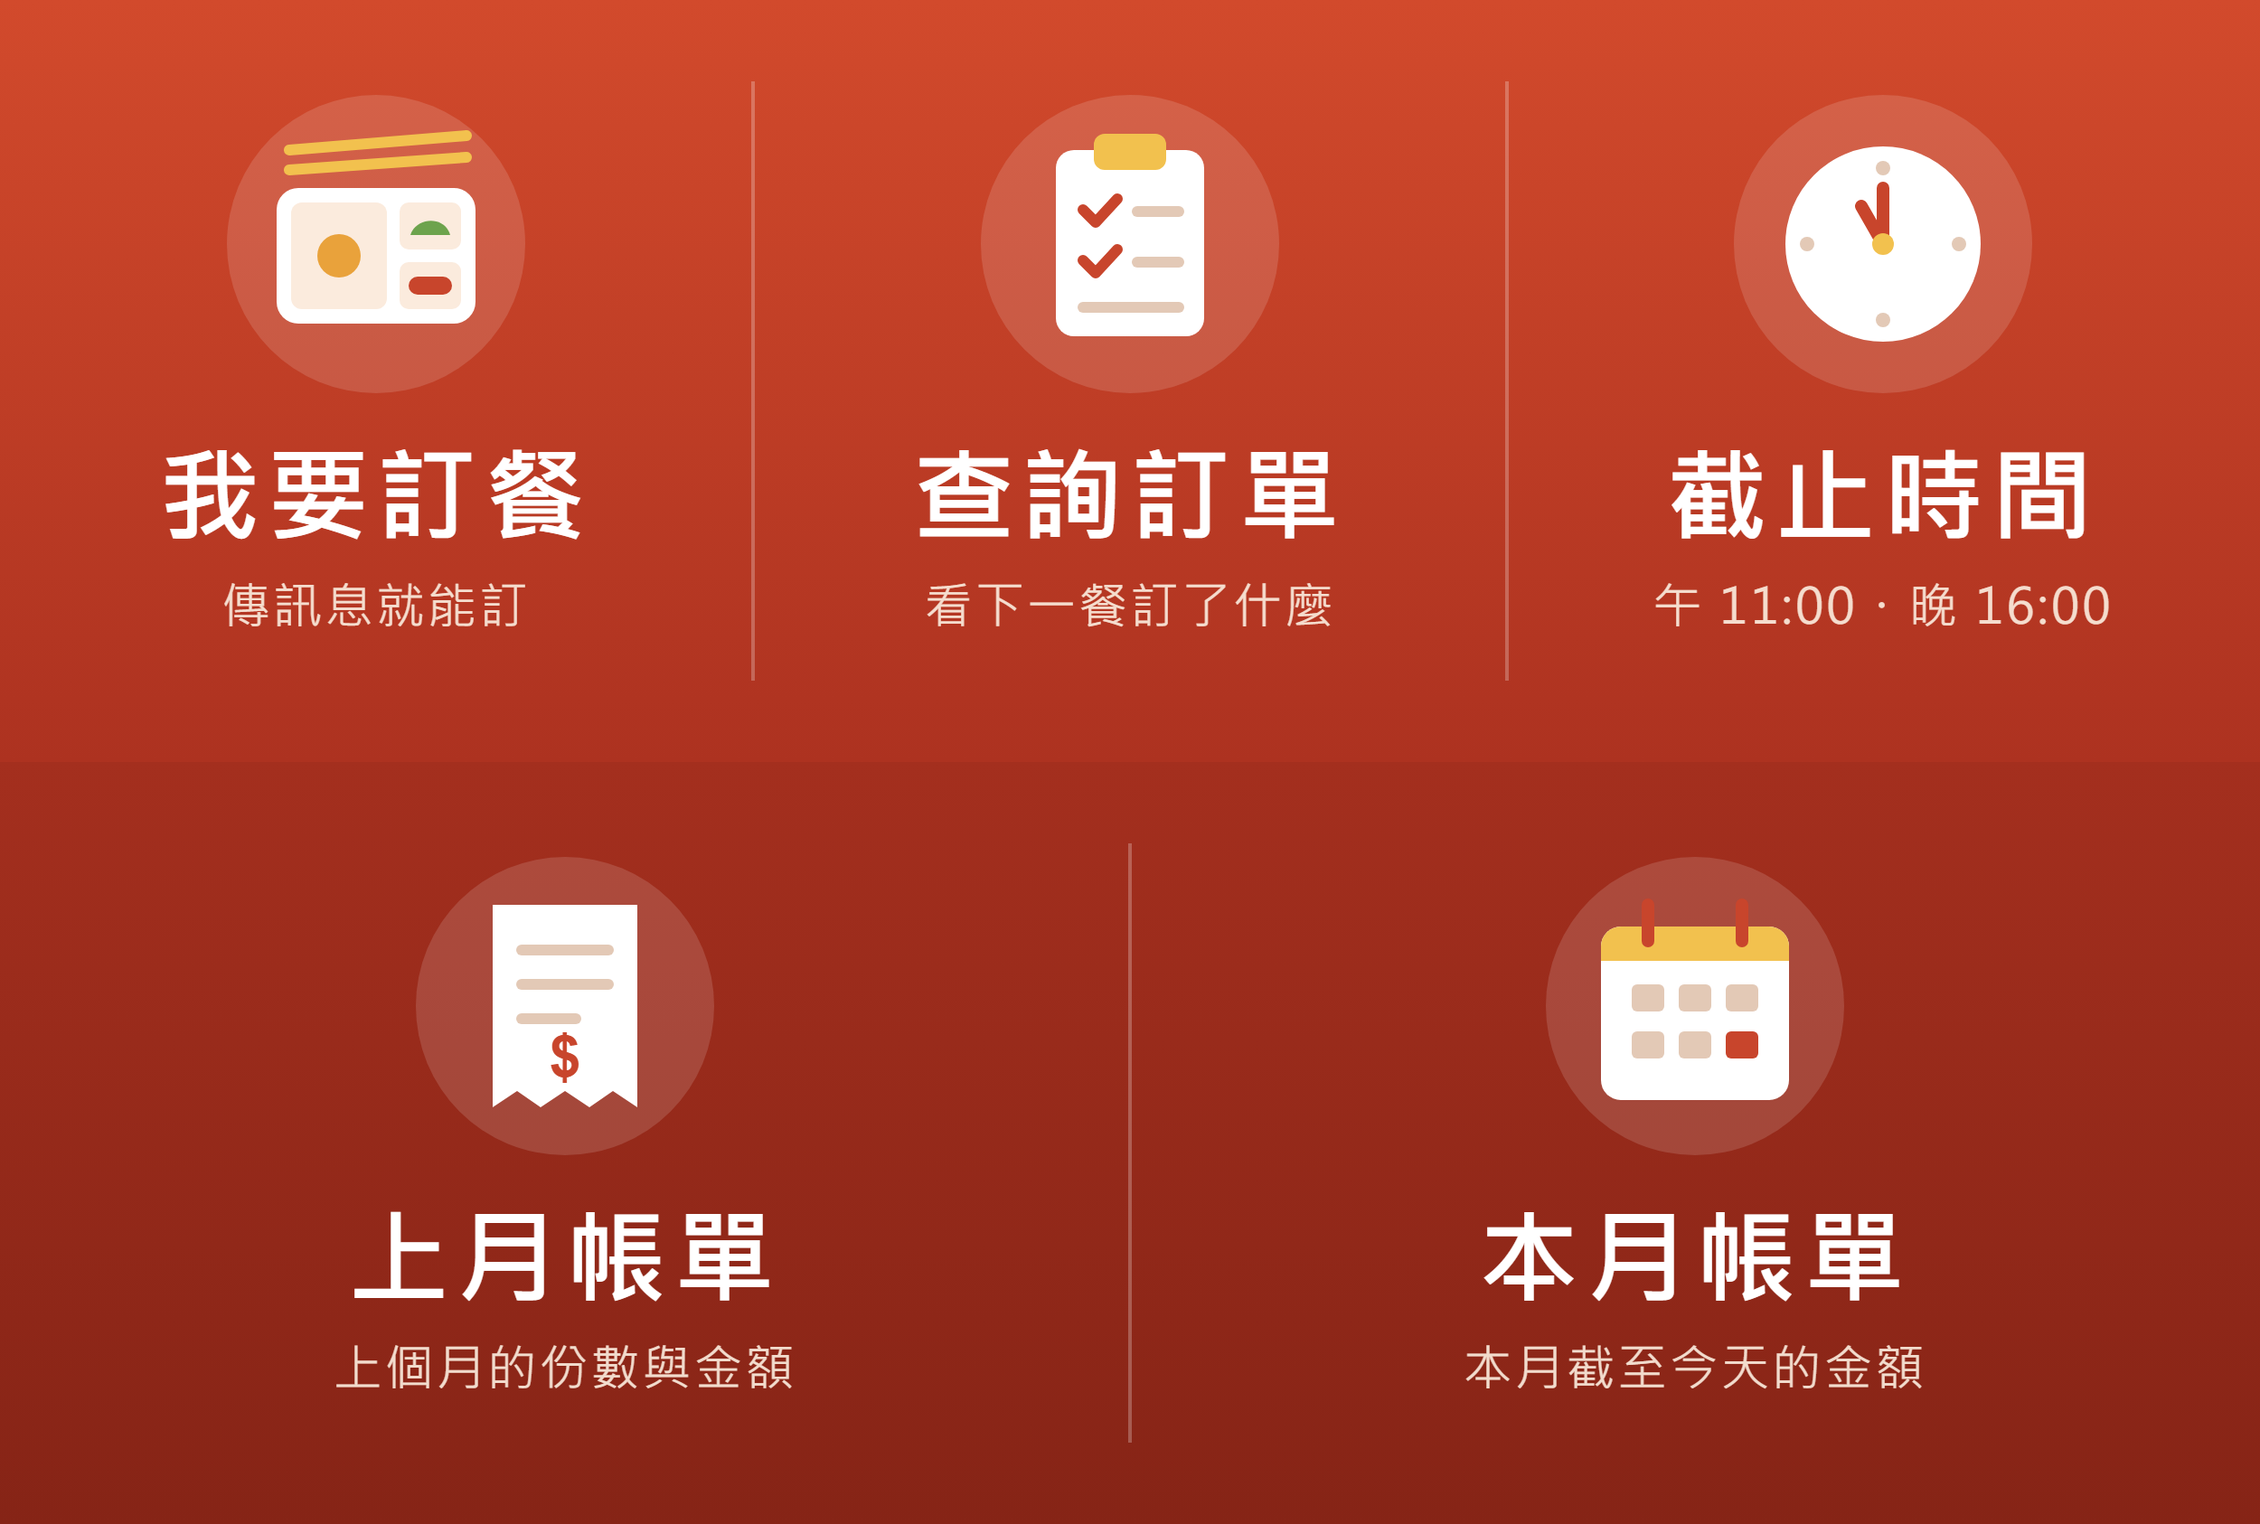
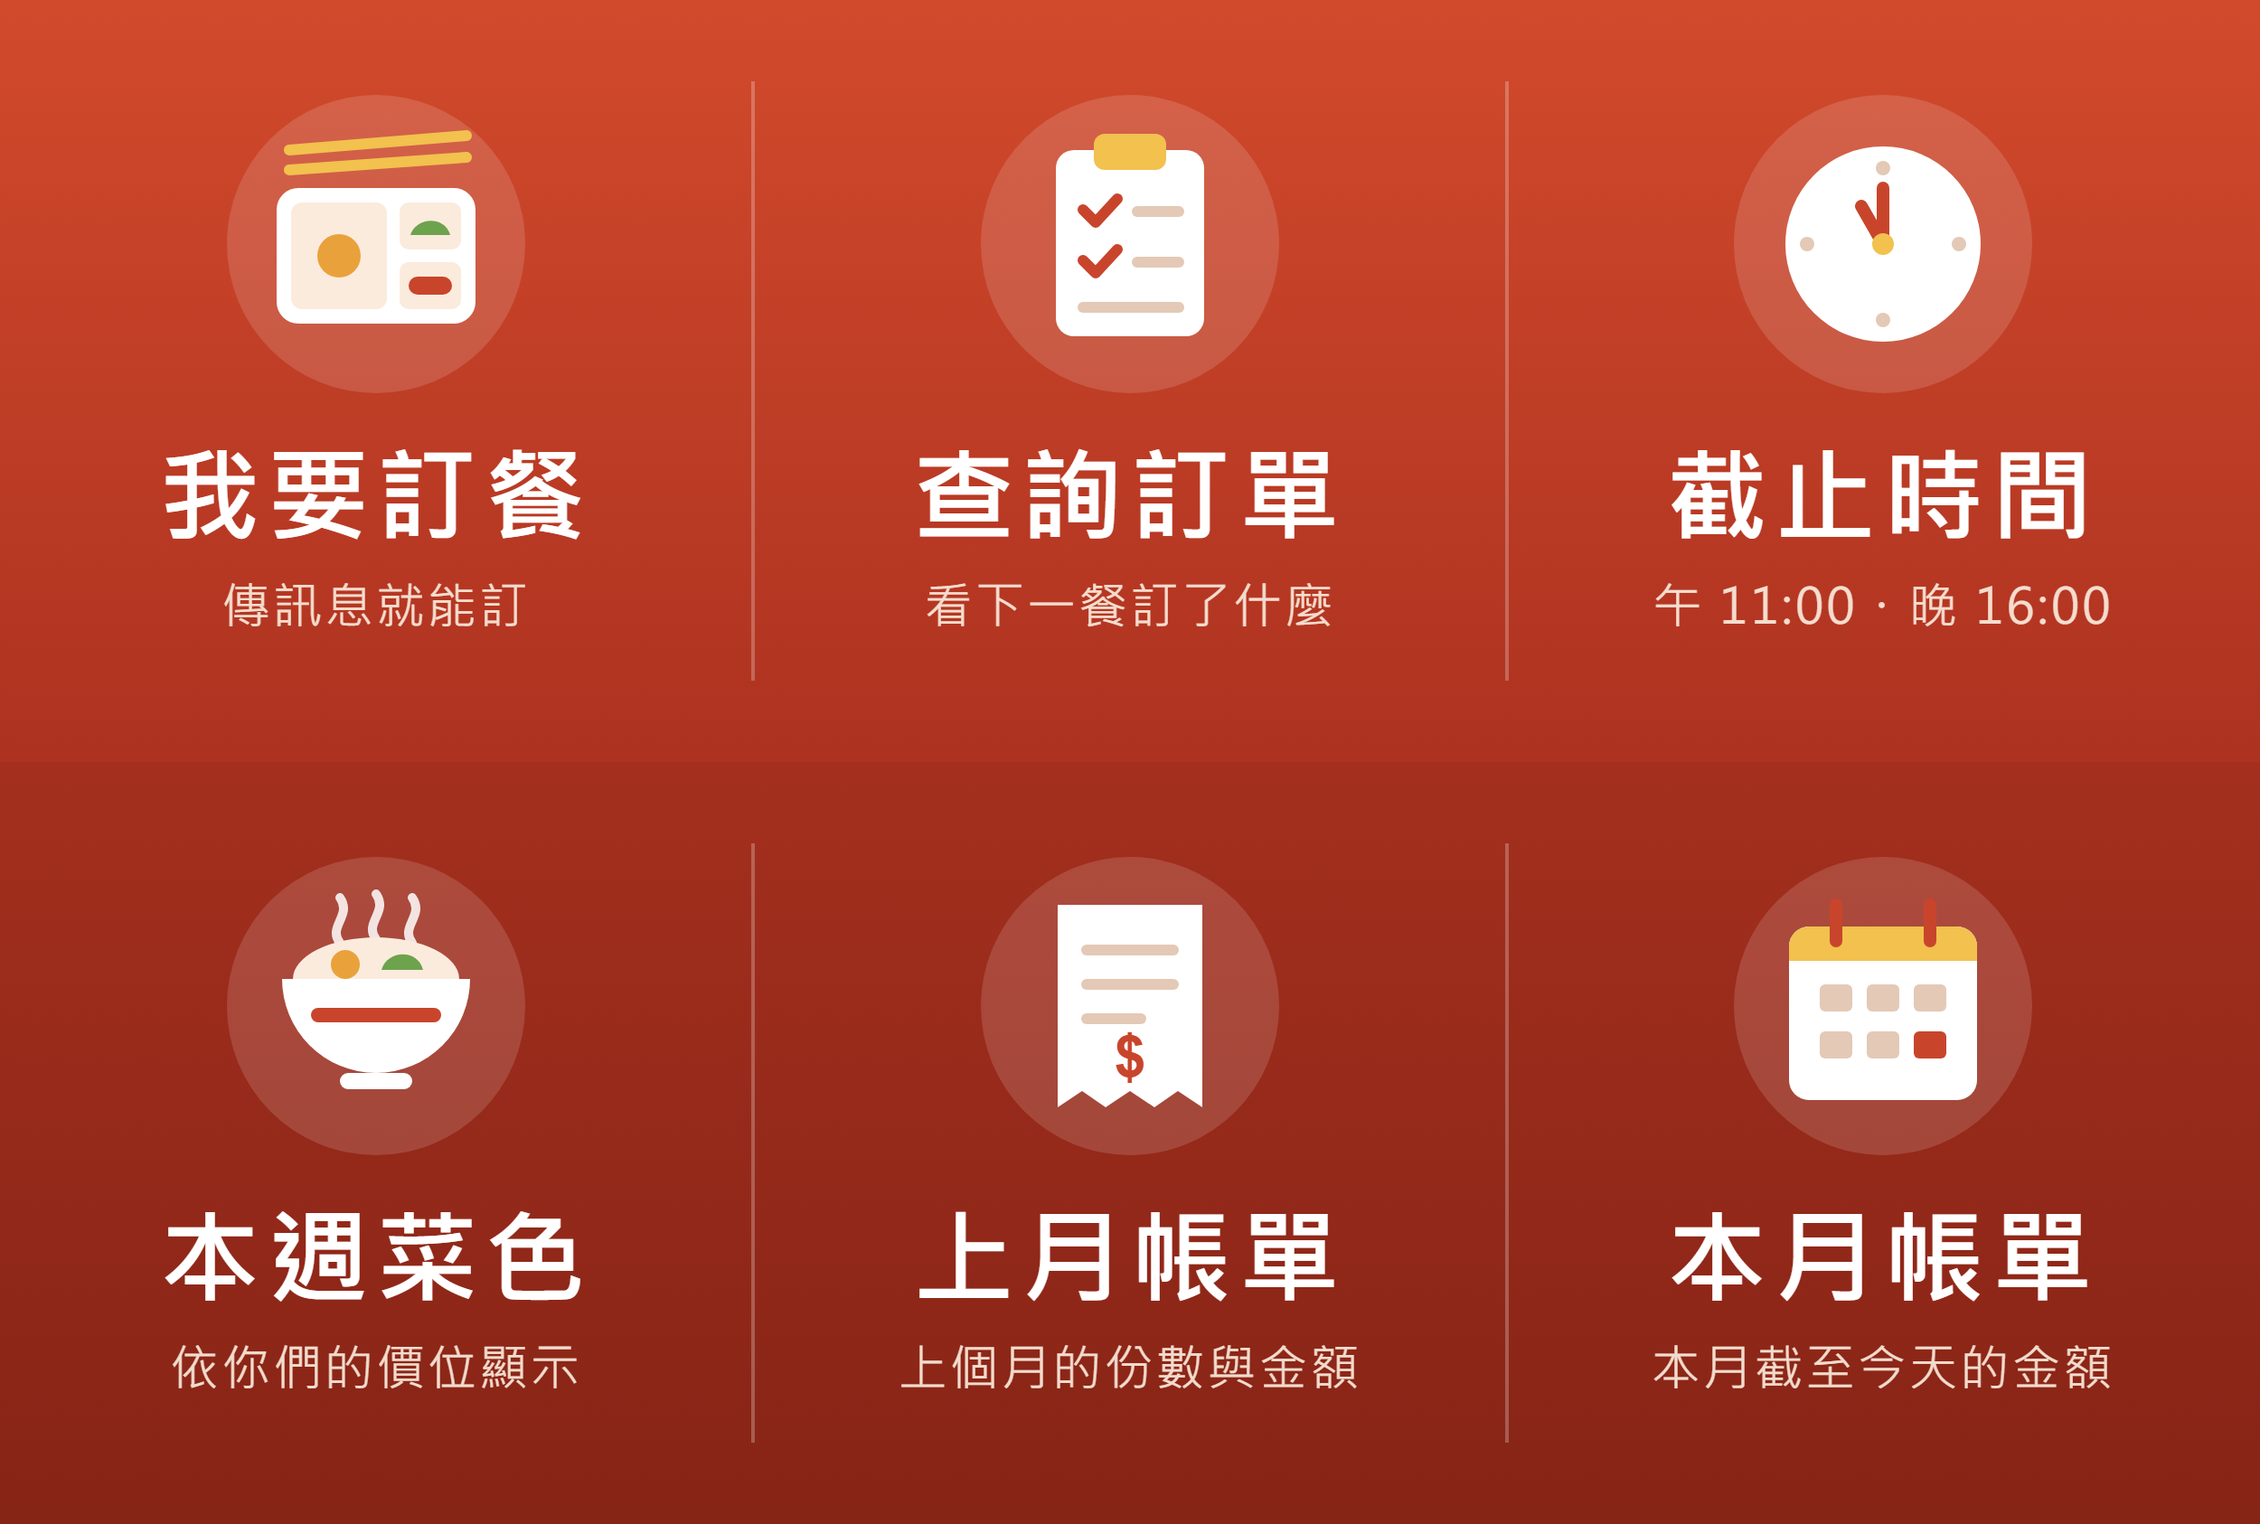
Add 本週菜色 to the LINE rich menu
Each card shows the site's planned meals with as many side dishes as its
fixed price buys.

Changed region(s): [[0.0624, 0.5552, 0.3432, 0.9253], [0.6552, 0.5552, 0.936, 0.9253], [0.4056, 0.5552, 0.5928, 0.9253]]

diff --git a/src/lib/line/bot.ts b/src/lib/line/bot.ts
@@ -1,10 +1,10 @@
 // The LINE bot conversation: binding, natural-language orders with a
-// confirmation card, queries, monthly bills. See docs/spec.md (第二期). The AI only parses
+// confirmation card, queries, monthly bills, this week's menu. See docs/spec.md (第二期). The AI only parses
 // (src/lib/line/parse.ts); this file resolves the meal, prices and cutoffs,
 // and every order write goes through src/lib/orders.ts.
-import { and, eq, gt, isNull, sql } from "drizzle-orm";
+import { and, asc, between, eq, gt, isNull, sql } from "drizzle-orm";
 import { db } from "@/db";
-import { companies, lineContacts, lineDrafts, siteMealPlans, sites } from "@/db/schema";
+import { companies, lineContacts, lineDrafts, menus, priceTiers, siteMealPlans, sites } from "@/db/schema";
 import {
   KIND_LABEL,
   MEAL_KINDS,
@@ -199,6 +199,8 @@ async function handleMenu(contact: Contact, data: string): Promise<LineMessage[]
       return [text(CUTOFFS)];
     case "menu:query":
       return handleRequest(contact, { intent: "query", date: null, slot: null, lines: [] }, "", new Date());
+    case "menu:week":
+      return weekMenu(contact);
     case "menu:bill-last":
     case "menu:bill-this":
       return bill(contact, data === "menu:bill-this");
@@ -470,6 +472,90 @@ function detailBubble(title: string, range: string, rows: DailyRow[], money: (n:
         line([cell("小計", 13, { weight: "bold" }), cell(money(total), 4, { weight: "bold", align: "end" })]),
       ],
     },
+  };
+}
+
+// This week's menu (from today to Saturday; on Sunday the coming week), one
+// card per service day. Each planned meal shows as many side dishes as the
+// site's fixed price buys (price_tiers.side_dish_count), taken in menu order.
+async function weekMenu(contact: Contact): Promise<LineMessage[]> {
+  const today = taipeiDate();
+  const start = isoWeekday(today) === 7 ? addDays(today, 1) : today;
+  const end = addDays(start, 6 - isoWeekday(start));
+  const [plans, week] = await Promise.all([
+    db
+      .select({ slot: siteMealPlans.slot, unitPrice: siteMealPlans.unitPrice, sides: priceTiers.sideDishCount })
+      .from(siteMealPlans)
+      .innerJoin(priceTiers, eq(priceTiers.price, siteMealPlans.unitPrice))
+      .where(eq(siteMealPlans.siteId, contact.siteId)),
+    db.select().from(menus).where(between(menus.date, start, end)).orderBy(asc(menus.date)),
+  ]);
+  if (plans.length === 0) return [text("你們目前沒有固定訂餐，如需訂餐請來電。")];
+
+  const bubbles: object[] = [];
+  for (let date = start; date <= end; date = addDays(date, 1)) {
+    if (!(await isServiceDay(date))) continue;
+    const meals = MEAL_SLOTS.flatMap((slot) => {
+      const plan = plans.find((p) => p.slot === slot);
+      if (!plan) return [];
+      const menu = week.find((m) => m.date === date && m.slot === slot);
+      return [mealSection(SLOT_LABEL[slot], plan, menu)];
+    });
+    bubbles.push({
+      type: "bubble",
+      size: "kilo",
+      header: {
+        type: "box",
+        layout: "vertical",
+        backgroundColor: "#3f51b5",
+        contents: [
+          { type: "text", text: dayLabel(date), color: "#ffffff", weight: "bold", size: "md" },
+          { type: "text", text: contact.siteLabel, color: "#e8eaf6", size: "xxs", wrap: true },
+        ],
+      },
+      body: { type: "box", layout: "vertical", spacing: "md", contents: meals.flatMap((m, i) => (i ? [{ type: "separator" }, m] : [m])) },
+    });
+  }
+  if (bubbles.length === 0) return [text("本週已沒有供餐日。")];
+  return [{ type: "flex", altText: "本週菜色", contents: { type: "carousel", contents: bubbles } }];
+}
+
+function mealSection(
+  title: string,
+  plan: { unitPrice: number; sides: number },
+  menu: { mainDish: string; sideDishes: string[]; soup: string; bMealItems: string[] } | undefined,
+) {
+  const item = (label: string, value: string) => ({
+    type: "box",
+    layout: "horizontal",
+    spacing: "sm",
+    contents: [
+      { type: "text", text: label, size: "xs", color: "#64748b", flex: 2 },
+      { type: "text", text: value, size: "sm", flex: 7, wrap: true },
+    ],
+  });
+  const head = {
+    type: "text",
+    text: `${title}　${plan.unitPrice} 元・配菜 ${plan.sides} 道`,
+    weight: "bold",
+    size: "sm",
+    color: "#3f51b5",
+  };
+  if (!menu) {
+    return { type: "box", layout: "vertical", spacing: "xs", contents: [head, { type: "text", text: "菜單尚未公布", size: "sm", color: "#94a3b8" }] };
+  }
+  const sides = menu.sideDishes.filter((d) => d.trim()).slice(0, plan.sides);
+  return {
+    type: "box",
+    layout: "vertical",
+    spacing: "xs",
+    contents: [
+      head,
+      item("主菜", menu.mainDish || "—"),
+      item("配菜", sides.join("、") || "—"),
+      item("湯", menu.soup || "—"),
+      ...(menu.bMealItems.length > 0 ? [item("B 餐", menu.bMealItems.join("、"))] : []),
+    ],
   };
 }
 

diff --git a/scripts/line-richmenu.ts b/scripts/line-richmenu.ts
@@ -1,7 +1,7 @@
 // Creates the bot's rich menu from docs/brand/line-richmenu.png and makes it
 // the default for every user. The buttons send postbacks that
 // src/lib/line/bot.ts answers (menu:help, menu:query, menu:cutoff,
-// menu:bill-last, menu:bill-this).
+// menu:week, menu:bill-last, menu:bill-this).
 //   npm run line:richmenu            add the menu and set it as default
 //   npm run line:richmenu -- --replace   also delete every other rich menu
 // --replace is needed when old menus are linked to individual users: a
@@ -30,7 +30,7 @@ async function call(method: string, url: string, body?: BodyInit, type = "applic
   return text ? JSON.parse(text) : {};
 }
 
-// Top row: three buttons; bottom row: two. Matches docs/brand/line-richmenu.svg.
+// Two rows of three buttons. Matches docs/brand/line-richmenu.svg.
 const rows = [
   [
     { data: "menu:help", label: "我要訂餐" },
@@ -38,6 +38,7 @@ const rows = [
     { data: "menu:cutoff", label: "截止時間" },
   ],
   [
+    { data: "menu:week", label: "本週菜色" },
     { data: "menu:bill-last", label: "上月帳單" },
     { data: "menu:bill-this", label: "本月帳單" },
   ],

diff --git a/CLAUDE.md b/CLAUDE.md
@@ -19,7 +19,7 @@ Product spec (Traditional Chinese): [docs/spec.md](docs/spec.md)
 - `npm run orders:generate -- [from] [to]`: create missing standing orders for a date range (default today), e.g. after downtime
 - `npm run db:seed`: wipe every table and load sample data (`scripts/seed.ts`, dev only). With `SEED_KEEP_LOGINS=1` it keeps employees that have a login and creates drivers without one (no dev passwords)
 - `npm run admin:create -- <username> <姓名> [電話]`: create (or reset) an admin login without touching other data; prints a random password unless `ADMIN_PASSWORD` is set. For a fresh production database
-- `npm run line:richmenu [-- --replace]`: create the LINE rich menu from `docs/brand/line-richmenu.png` (2500×1686: 我要訂餐/查詢訂單/截止時間 on top, 上月帳單/本月帳單 below → postbacks `menu:*` in `bot.ts`) and make it the default; `--replace` deletes every other rich menu (per-user menus override the default). Needs `LINE_CHANNEL_ACCESS_TOKEN`
+- `npm run line:richmenu [-- --replace]`: create the LINE rich menu from `docs/brand/line-richmenu.png` (2500×1686, two rows of three: 我要訂餐/查詢訂單/截止時間, 本週菜色/上月帳單/本月帳單 → postbacks `menu:*` in `bot.ts`) and make it the default; `--replace` deletes every other rich menu (per-user menus override the default). Needs `LINE_CHANNEL_ACCESS_TOKEN`
 
 ## Layout
 
@@ -32,7 +32,7 @@ Product spec (Traditional Chinese): [docs/spec.md](docs/spec.md)
 - `src/lib/order-events.ts`: order writes `pg_notify` on `order_changes`; the SSE route `/api/board/events` relays them
 - `src/lib/board.ts`: dashboard query behind `/api/board`
 - `src/lib/reports.ts`: Excel reports (`exceljs`). `/api/reports/daily?date=&slot=` (any employee) and `/api/reports/monthly?month=YYYY-MM` (admins); billing uses each order line's unit-price snapshot. UI at `/admin/reports`
-- `src/lib/line/`: phase-2 LINE bot. `bot.ts` runs the conversation (binding by 6-digit code, rate limited like login with `line:<userId>` keys, and a valid code moves an account off its old contact; order → Flex confirmation card → postback 確認/取消, queries, rich-menu postbacks `menu:*`, including the site's bill for last month or this month to date via `monthlyLines` in `reports.ts`; picks the meal, prices and cutoffs itself; unfollow sets `line_contacts.unfollowed_at`, follow clears it), `parse.ts` asks `claude-haiku-5-5` for a structured reading of the message (Zod + `messages.parse`; the model never decides prices or cutoffs), `api.ts` verifies signatures and sends replies/pushes (`LINE_DRY_RUN=1` logs instead), `notify.ts` pushes to the site's contacts (skipping ones that blocked the account) when staff change an order after cutoff (called from `/admin/orders`). Webhook: `POST /api/line/webhook` (answers at once, handles events in `after()`). Contacts are managed on `/admin/sites/[id]`
+- `src/lib/line/`: phase-2 LINE bot. `bot.ts` runs the conversation (binding by 6-digit code, rate limited like login with `line:<userId>` keys, and a valid code moves an account off its old contact; order → Flex confirmation card → postback 確認/取消, queries, rich-menu postbacks `menu:*`, including this week's menu with as many side dishes as the site's price buys, and the site's bill for last month or this month to date via `monthlyLines` in `reports.ts`; picks the meal, prices and cutoffs itself; unfollow sets `line_contacts.unfollowed_at`, follow clears it), `parse.ts` asks `claude-haiku-5-5` for a structured reading of the message (Zod + `messages.parse`; the model never decides prices or cutoffs), `api.ts` verifies signatures and sends replies/pushes (`LINE_DRY_RUN=1` logs instead), `notify.ts` pushes to the site's contacts (skipping ones that blocked the account) when staff change an order after cutoff (called from `/admin/orders`). Webhook: `POST /api/line/webhook` (answers at once, handles events in `after()`). Contacts are managed on `/admin/sites/[id]`
 - `src/lib/system-ca.ts`: with `TRUST_SYSTEM_CA=1`, `src/instrumentation.ts` adds the OS certificate store at startup (company TLS proxy)
 - `src/lib/order-view.ts`: loads what an order editor needs; validates Server Action input
 - `src/lib/auth.ts`: staff sessions (random cookie token, stored SHA-256 hashed in `sessions`). Every admin page and Server Action calls `requireEmployee()`; `src/proxy.ts` only redirects cookieless `/admin` requests to `/login`. Login is rate limited (5 failures per username or 30 per IP in 15 minutes, checked before the password); an admin password reset clears the username's failures

diff --git a/docs/spec.md b/docs/spec.md
@@ -105,7 +105,8 @@
   - 沒講葷素時算葷。沒講價位時用廠區的固定單價；若該餐別目前只有一種價位，就沿用那個價位。
   - 只能訂 14 天內的餐；訊息最多 200 字。
   - 確認卡 30 分鐘內有效，而且只有最新一張有效。按〔確認〕時若訂單已被別人改過（例如員工改單），會請客戶重新傳一次。
-- **圖文選單**：我要訂餐（說明）、查詢訂單（下一個可訂的餐次）、截止時間、上月帳單、本月帳單。
+- **圖文選單**：我要訂餐（說明）、查詢訂單（下一個可訂的餐次）、截止時間、本週菜色、上月帳單、本月帳單。
+- **本週菜色**：從今天到週六（週日則顯示下週）每個供餐日一張卡片，左右滑動。只列該廠區有訂的餐次，標示固定單價與配菜道數；配菜依價位表的道數，取菜單上前幾道顯示，另列主菜、湯與 B 餐。菜單未輸入時顯示「菜單尚未公布」。
 - **帳單查詢**：回覆該廠區上個月，或本月 1 日到今天的份數與金額，依餐次 × 餐別 × 價位彙總，金額以單價快照計算，與月結對帳表一致；接著附每日明細表格（Flex 卡片，上半月、下半月各一張左右滑動；欄位為日期、餐次、內容、金額，附小計）。只看自己廠區，並註明實際請款以月結對帳單為準。
 - **推播**：只在截止後由員工人工改單時，推播給該廠區的聯絡人。
 

diff --git a/docs/setup-notes.md b/docs/setup-notes.md
@@ -92,6 +92,7 @@ The workflow runs `npm run db:migrate` (secret `DATABASE_URL`) after the build a
 
 ## Changelog
 
+- 2026-11-02: Rich menu button 本週菜色 (`menu:week`, bottom row is now three buttons): a Flex card per service day to Saturday showing the site's planned meals, with the first N side dishes where N is `price_tiers.side_dish_count` for the site's fixed price. Run `npm run line:richmenu -- --replace` after the deploy.
 - 2026-10-30: 每日明細 is now a Flex table (日期/餐/內容/金額 with a subtotal), one card per half month in a carousel; checked with LINE's `/message/validate/reply`.
 - 2026-10-30: The LINE bill reply adds a second message, 每日明細: one line per day and meal with items and amount (split at LINE's 5,000-character limit).
 - 2026-10-30: The rich menu grows to two rows (2500×1686) with 上月帳單 and 本月帳單. The bot answers `menu:bill-last` / `menu:bill-this` with the site's quantities and amounts from the unit-price snapshots; `monthlyLines()` takes an optional site and end date. Run `npm run line:richmenu -- --replace` after the deploy.
